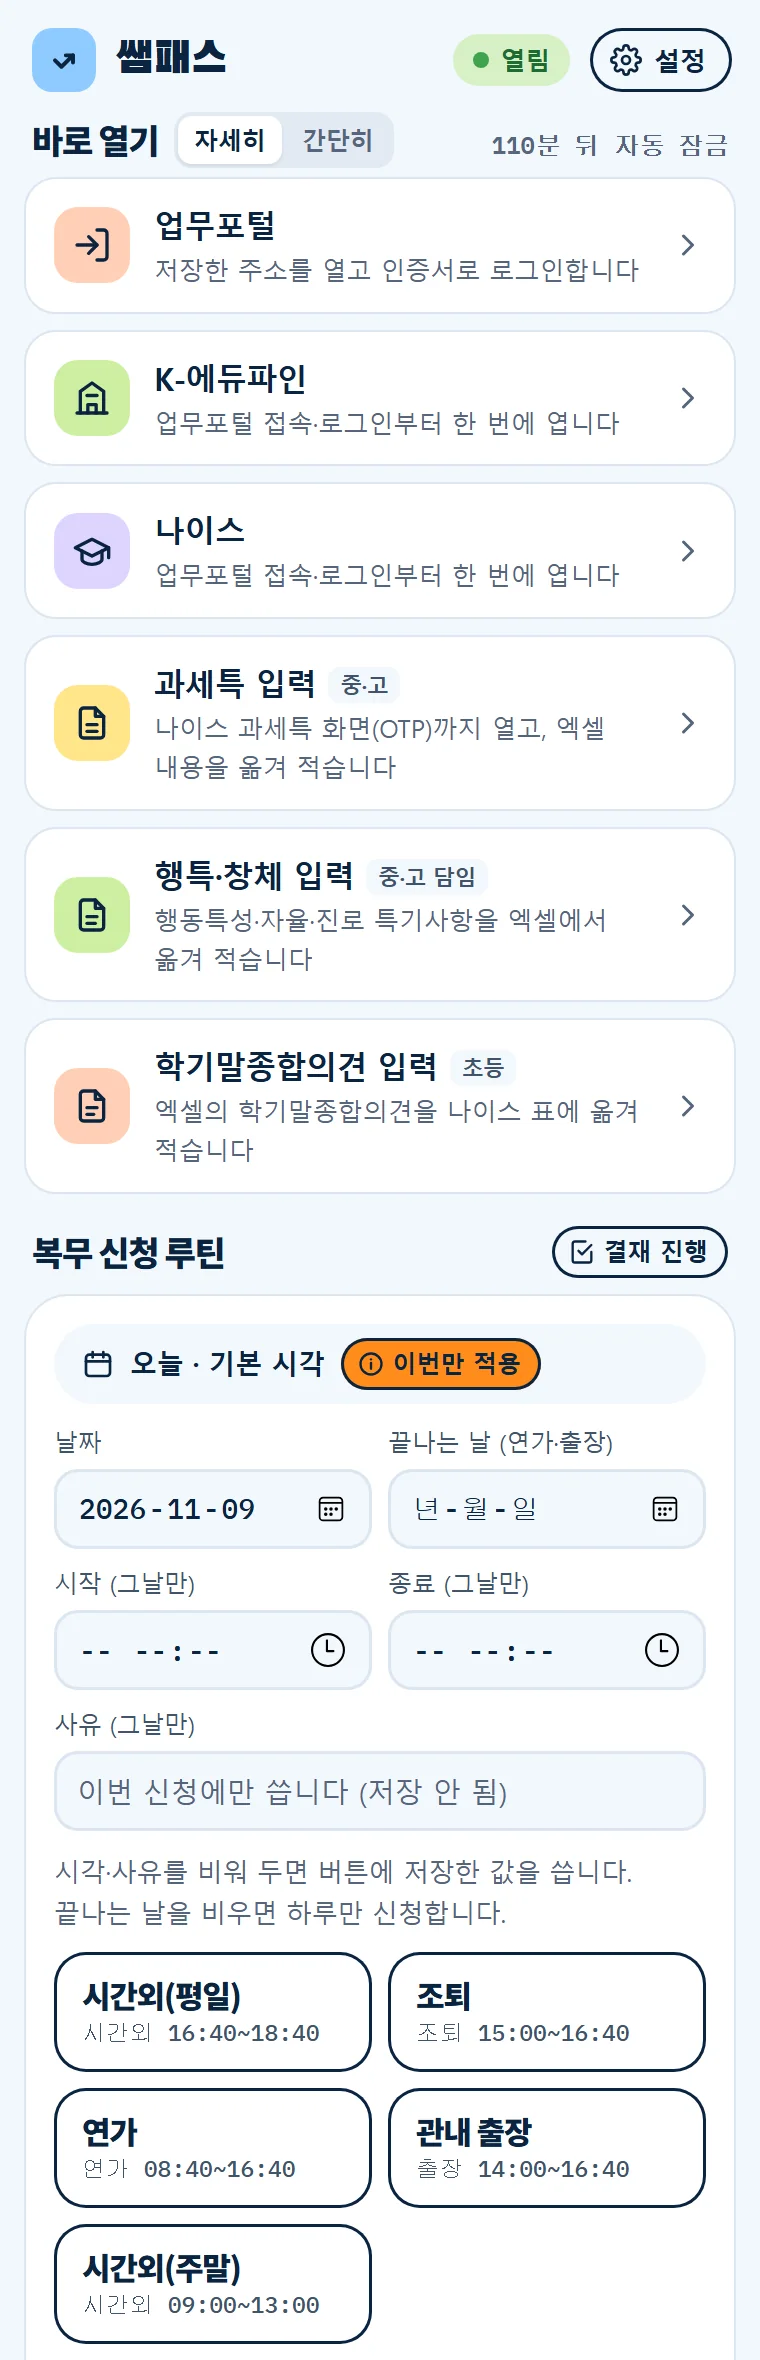
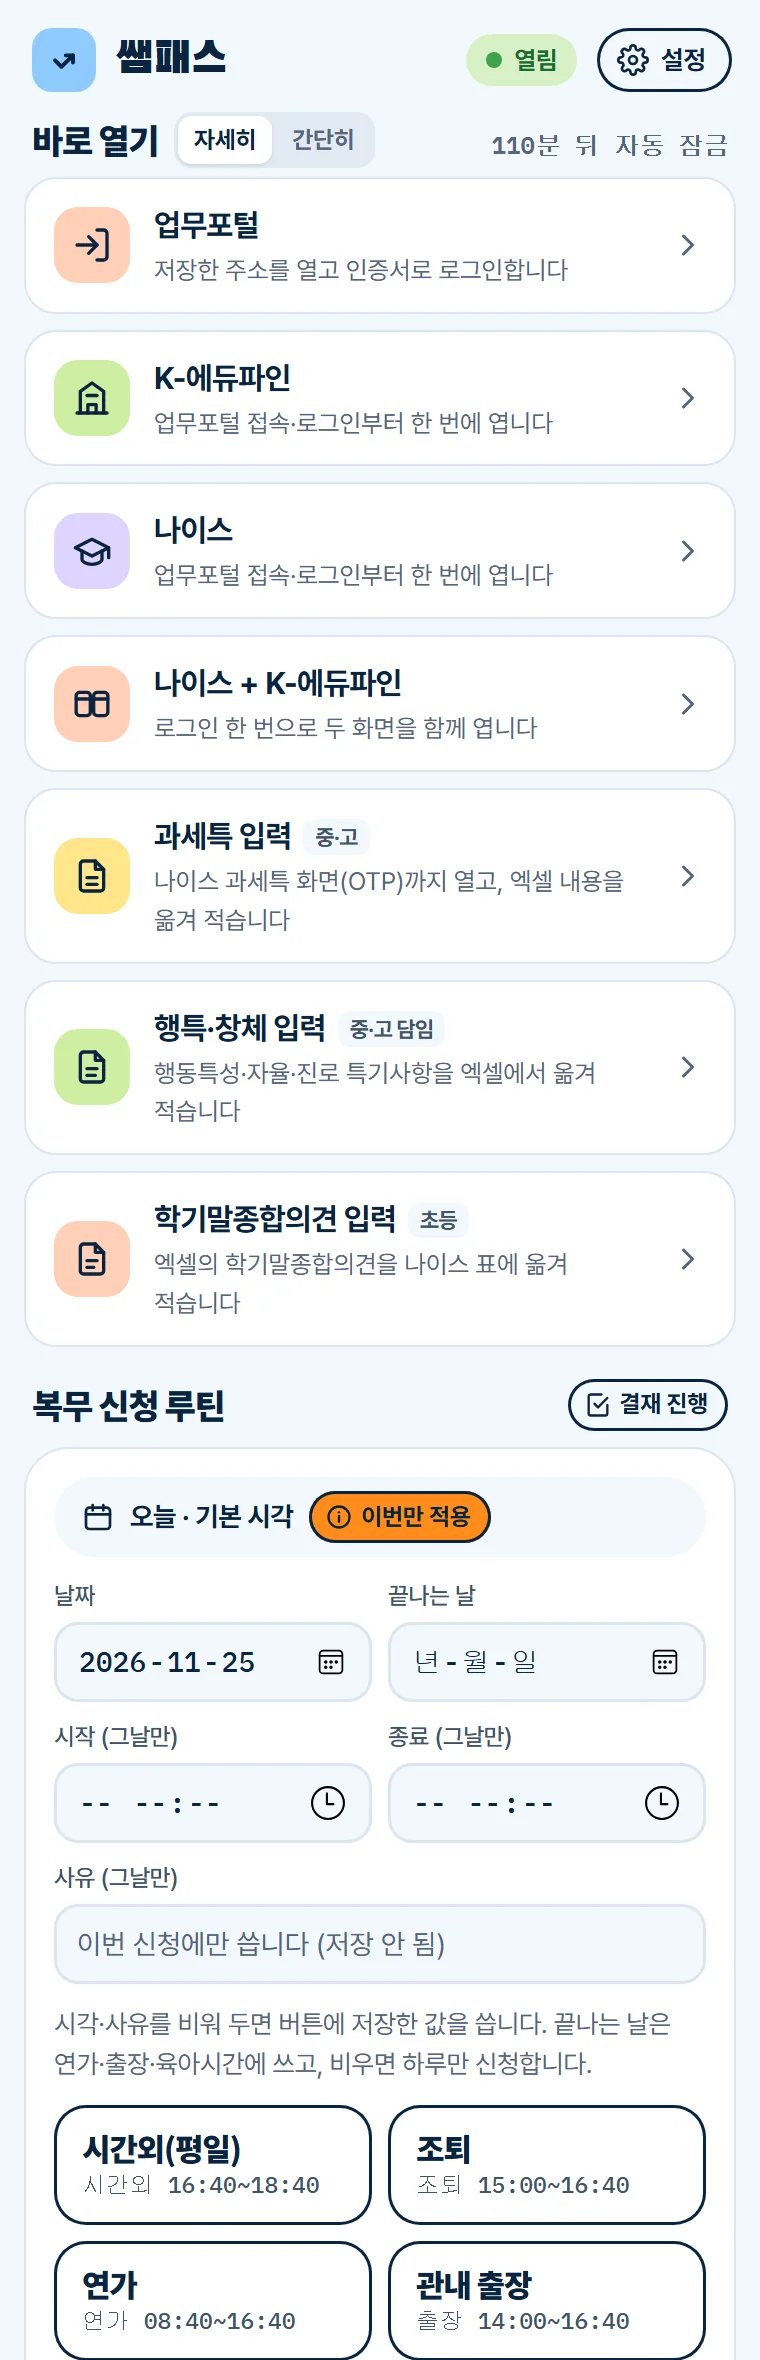
쌤패스 0.16.9 소개 페이지·업데이트 파일

diff --git a/pass/index.html b/pass/index.html
@@ -534,7 +534,8 @@
           <ul>
             <li>시간외근무 · 연가 · 조퇴 · 외출 · 지각 · 병조퇴 · 육아시간 · 출장</li>
             <li>이미 로그인돼 있거나 나이스가 열려 있으면 그 단계는 건너뛰어요</li>
-            <li>날짜 · 시각 · 사유 · 끝나는 날(연가 · 출장)은 팝업에서 그날만 바꾸기 (저장한 버튼은 그대로)</li>
+            <li>날짜 · 시각 · 사유 · 끝나는 날(연가 · 출장 · 육아시간)은 팝업에서 그날만 바꾸기 (저장한 버튼은 그대로)</li>
+            <li>육아시간은 한 주(월~금) 안의 여러 날을 한 번에, 날마다 같은 시각으로</li>
             <li>사유가 매일 바뀌면 버튼에 비워 두고, 누르기 전에 팝업에서 적어요</li>
             <li><kbd>Alt</kbd>+<kbd>Shift</kbd>+<kbd>1</kbd>처럼 단축키로도 실행</li>
           </ul>
@@ -667,7 +668,7 @@
                 <li>설정 › <b>복무 신청 루틴</b> › [+ 버튼 추가](10개까지): 종류(시간외근무 · 연가 · 조퇴 · 육아시간 등 · 출장) · 시각 · 사유 · 결재선 이름. 사유가 매일 바뀌면 비워 둬도 돼요.</li>
                 <li>육아시간은 나이스 신청 창의 자녀 목록에서 자녀를 골라요. 자녀가 여럿이면 버튼의 <b>"자녀 (나이스 목록 순서)"</b>에서 몇 번째인지 정해 두세요. (자녀 이름은 저장하지 않아요)</li>
                 <li>팝업의 버튼을 누르면 업무포털 로그인 → 나이스 열기 → 결재선 지정까지 이어서 해요. 이미 된 단계는 건너뛰어요.</li>
-                <li>날짜 · 시각 · 사유 · 끝나는 날(연가 · 출장)은 팝업의 "바꾸기"에서 그날만 바꿔요. 고친 값은 이번 신청에만 쓰고, 버튼에 저장한 내용은 바뀌지 않아요.</li>
+                <li>날짜 · 시각 · 사유 · 끝나는 날(연가 · 출장 · 육아시간)은 팝업의 "바꾸기"에서 그날만 바꿔요. 고친 값은 이번 신청에만 쓰고, 버튼에 저장한 내용은 바뀌지 않아요. 육아시간 여러 날은 한 주(월~금) 안에서 고르면 날마다 같은 시각으로 신청해요.</li>
                 <li>나이스 화면에서 확인하고 <b>[상신]은 직접</b>.</li>
               </ol>
               <div class="tip">사유를 비워 둔 버튼이 있으면 팝업의 버튼 바로 위에 사유 칸이 보여요. 시간외근무 · 출장은 사유를 적어야 시작하고, 조퇴 · 외출 등은 비워도 진행해요.</div>

diff --git a/pass/tour.html b/pass/tour.html
@@ -1035,7 +1035,7 @@
       a.hl('.h1', 5, 7.6); a.hl('.h2', 7.8, 10.2); a.hl('.h3', 10.8, 14.4); a.hl('.h4', 19.2, 20.9);
       a.type('.w1', 11.7, 13.1); a.k('.w1', [[0, { o: 0 }], [11.6, { o: 0 }], [11.7, { o: 1 }], [13.55, { o: 1 }], [13.6, { o: 0 }]]);
       a.cap(0, '버튼을 누르기 전에, 날짜·시각·사유가 평소와 다르면 \'바꾸기\'를 열어요.');
-      a.cap(5, '그날만 쓸 날짜·시각을 넣어요. 연가·출장은 끝나는 날도 고를 수 있어요.');
+      a.cap(5, '그날만 쓸 날짜·시각을 넣어요. 연가·출장·육아시간은 끝나는 날도 고를 수 있어요.');
       a.cap(10.6, '사유가 그날만 다르면 여기에 적어요. 이번 신청에만 쓰고 저장하지 않아요.');
       a.cap(14.8, '비워 둔 칸은 오늘 날짜, 버튼에 저장한 값으로 신청해요.');
       a.cap(18.4, '주황색 [이번만 적용]을 누르면 어떻게 신청되는지 볼 수 있어요.');
